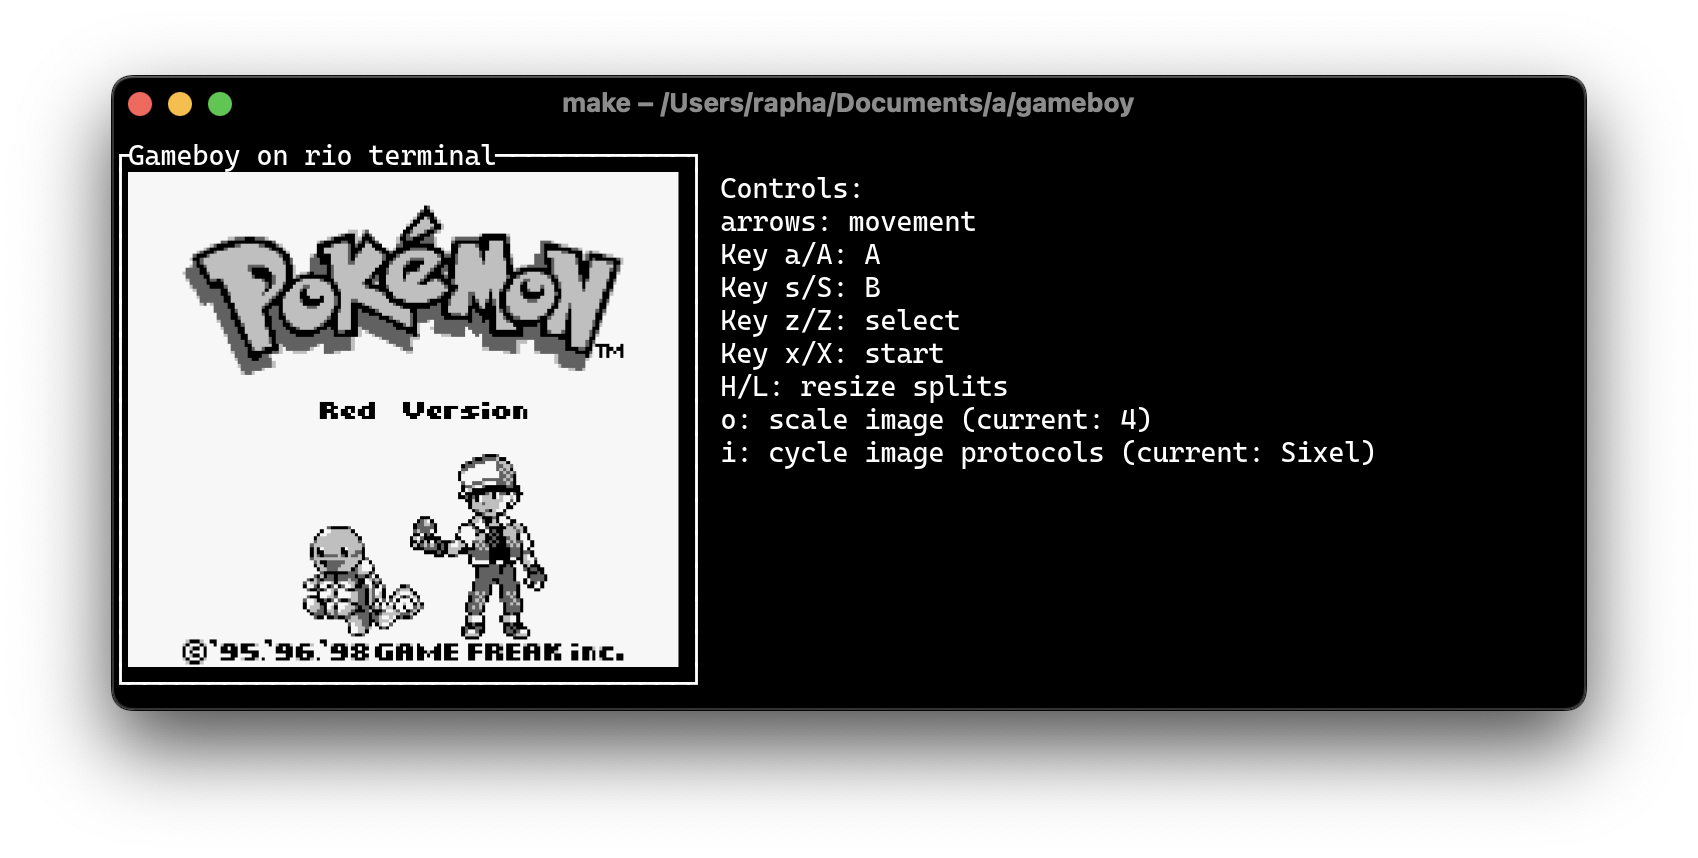
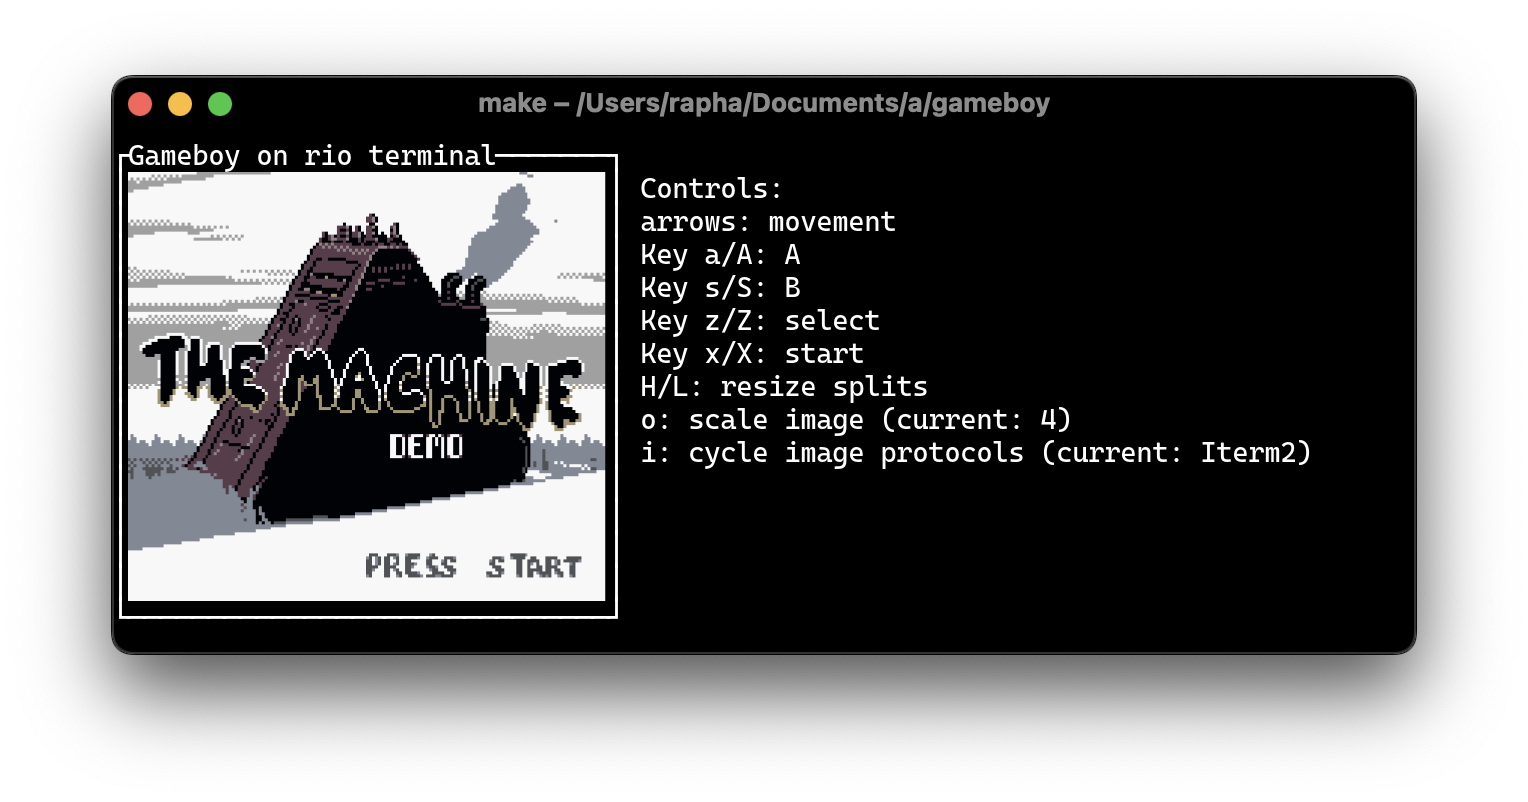
update demo for terminal

Changed region(s): [[0.0615, 0.0623, 0.9535, 0.8728]]

diff --git a/examples/desktop/bin.rs b/examples/desktop/bin.rs
@@ -5,7 +5,7 @@ use gameboy::gameboy::{load_rom, Gameboy, RenderMode::Desktop};
 fn main() {
     // TODO: Allow receive path by arguments
     // let gb = Gameboy::new("./../../tests/cpu_instrs/cpu_instrs.gb");
-    if let Ok((data, filepath)) = load_rom("./../pokemon-red.gb") {
+    if let Ok((data, filepath)) = load_rom("./../the-machine.gb") {
     // if let Ok((data, filepath)) = load_rom("./../bakery.gb") {
         let gb = Gameboy::new(data, Some(filepath));
         gb.render(Desktop);

diff --git a/examples/terminal/bin.rs b/examples/terminal/bin.rs
@@ -4,7 +4,7 @@ use gameboy::gameboy::{load_rom, Gameboy, RenderMode::Terminal};
 
 fn main() {
     // TODO: Allow receive path by arguments
-    if let Ok((data, filepath)) = load_rom("./../pokemon-red.gb") {
+    if let Ok((data, filepath)) = load_rom("./../the-machine.gb") {
     // if let Ok((data, filepath)) = load_rom("./../bakery.gb") {
         let gb = Gameboy::new(data, Some(filepath));
         gb.render(Terminal);

diff --git a/README.md b/README.md
@@ -7,9 +7,9 @@
 
 | Web via WebAssembly | Desktop | Terminal |
 | --- | --- | --- |
-| ![Demo Web with Assembly](resources/demo-web.png) | ![First demo desktop GUI](resources/demo-desktop-1.png) ![Second demo desktop GUI](resources/demo-desktop-2.png) | ![First terminal demo](resources/demo-terminal-1.png) |
-| Playing [Cookies Bakery by leafthief](https://leafthief.itch.io/cookies-bakery) | Playing [Unearthed by benjelter](https://benjelter.itch.io/unearthed) | Playing [Pokemon by Nintendo](https://en.wikipedia.org/wiki/Pok%C3%A9mon_Red,_Blue,_and_Yellow) |
-| Firefox 116.0.3 (64-bit) | macOS 11.6.2, 16GB, Quad-Core Intel Core i7, 1,2 GHz | Rio Terminal |
+| ![Demo Web with Assembly](resources/demo-web.png) | ![First demo desktop GUI](resources/demo-desktop-1.png) ![Second demo desktop GUI](resources/demo-desktop-2.png) | ![First terminal demo](resources/demo-terminal-1.png) ![Second terminal demo](resources/demo-terminal-2.png) |
+| Playing [Cookies Bakery by leafthief](https://leafthief.itch.io/cookies-bakery) | Playing [Unearthed by benjelter](https://benjelter.itch.io/unearthed) | Playing [The Machine by Ben Jelter](https://benjelter.itch.io/the-machine) |
+| Firefox 116.0.3 (64-bit) | macOS 11.6.2, 16GB, Quad-Core Intel Core i7, 1,2 GHz | Rio Terminal v0.2.2 |
 | `make web` | `make desktop` | `make terminal` |
 
 ## WebAssembly quick demo
